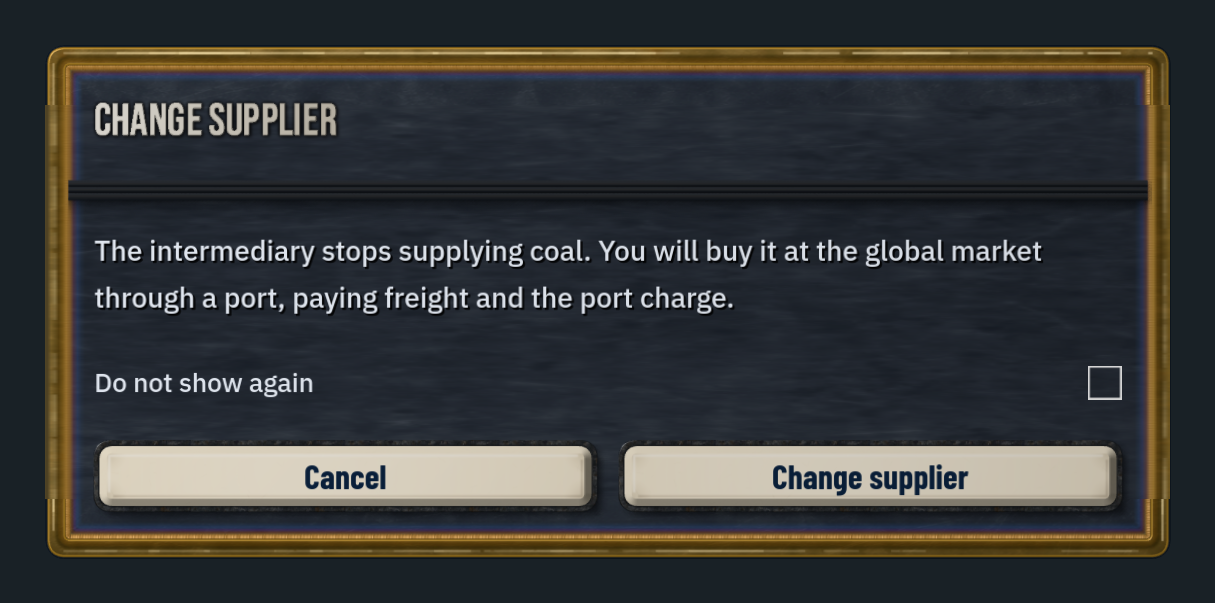
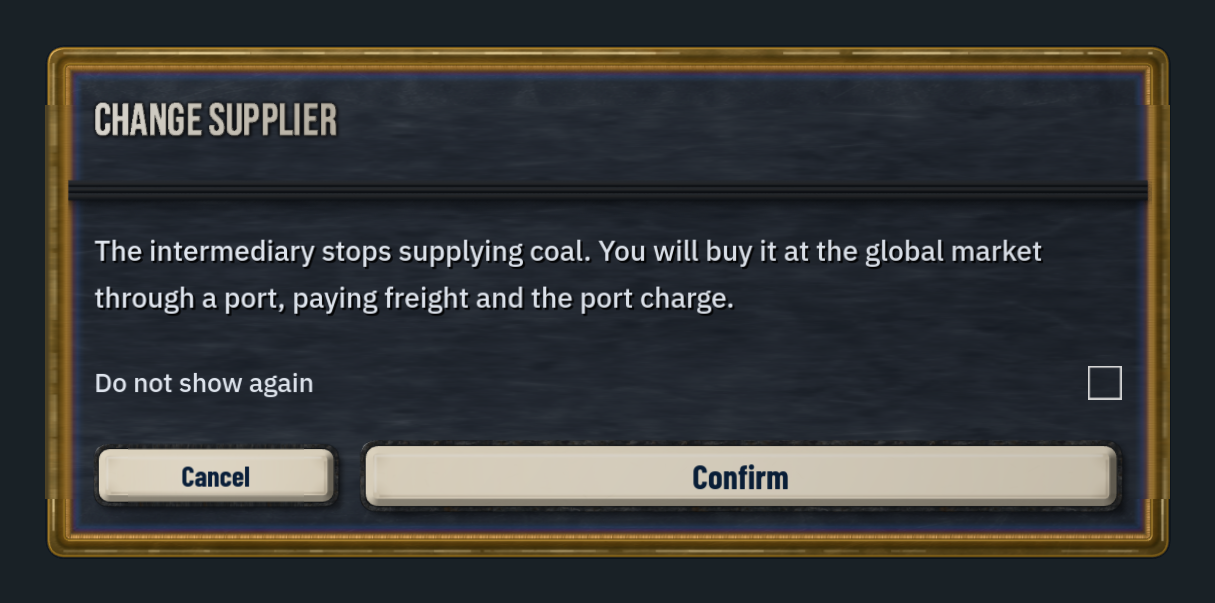
Destination sheet: Confirm and a smaller Cancel, the link keeps the sheet open; old prompts removed
The keys read Cancel and Confirm. The Stockpile tab link opens the tab and
leaves the sheet up with its decision: the scrim clears so the tab can be
used, and the sheet drags by its title. The old "Surplus at" prompt
(stockpile_route_prompt.gd) is deleted with its callers.

Changed region(s): [[0.0609, 0.7164, 0.335, 0.8657], [0.5481, 0.7761, 0.7918, 0.8358], [0.4568, 0.7164, 0.5177, 0.8657]]

diff --git a/price-of-everything-0.1/docs/ds2-owner-decisions.md b/price-of-everything-0.1/docs/ds2-owner-decisions.md
@@ -132,3 +132,4 @@ Owner, 2 October 2026:
 - Output to a tile stockpile, this tile's or another's: "The intermediary will no longer buy your output. This may decrease your revenue if you don't use the output in other recipes. If unused, the output will accumulate in the stockpile. If you want to sell the unused surplus, do so in the Stockpile tab." Stockpile tab is underlined and opens that tile's Stockpile tab.
 - "Do not show again" stays session wide.
 - News line, once a game, on the first sale to reach the global market: title "First sale to the market", body "Our company sold its first goods to the global market via [port]. This is likely the first in many transactions that will put us on the map. Who knows where we'll go from here."
+- Owner, on the sheet: the keys read Cancel and Confirm, Cancel the smaller. The Stockpile tab link opens the tab and leaves the sheet up with its decision (the scrim clears so the tab can be used; the sheet drags by its title). The old "Surplus at" prompt (`stockpile_route_prompt.gd`) and the system Change supplier dialog are removed from the code.
